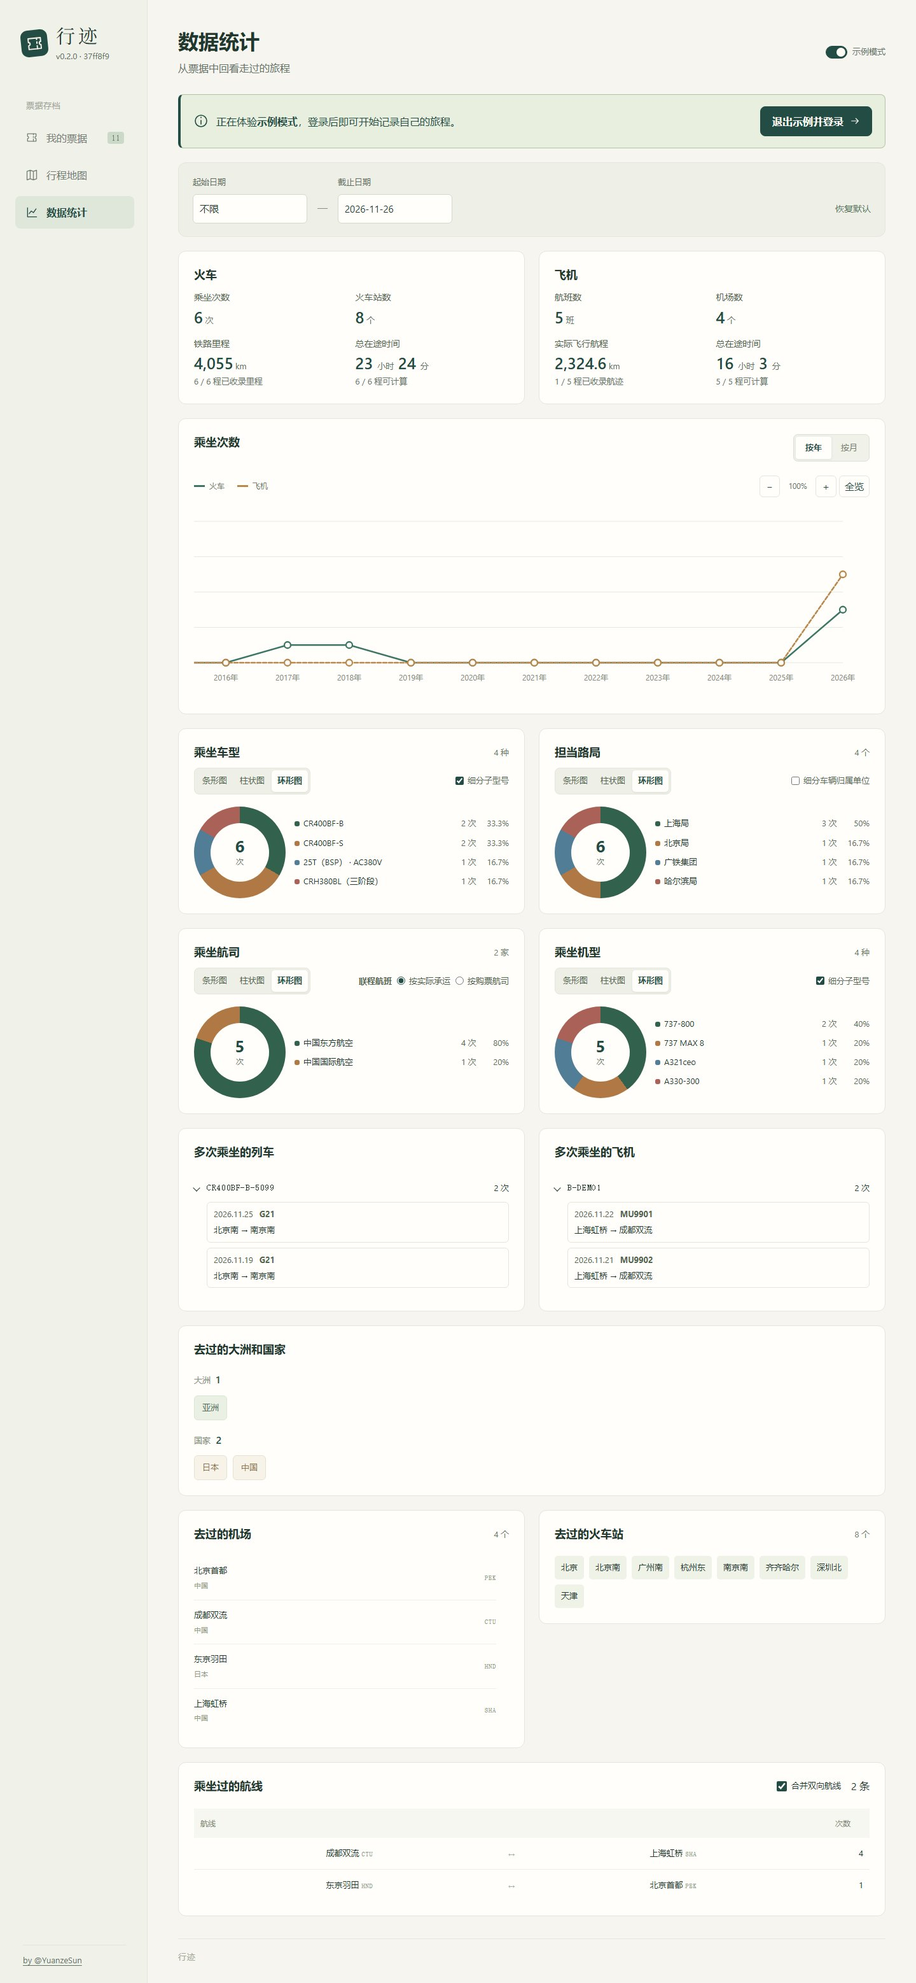
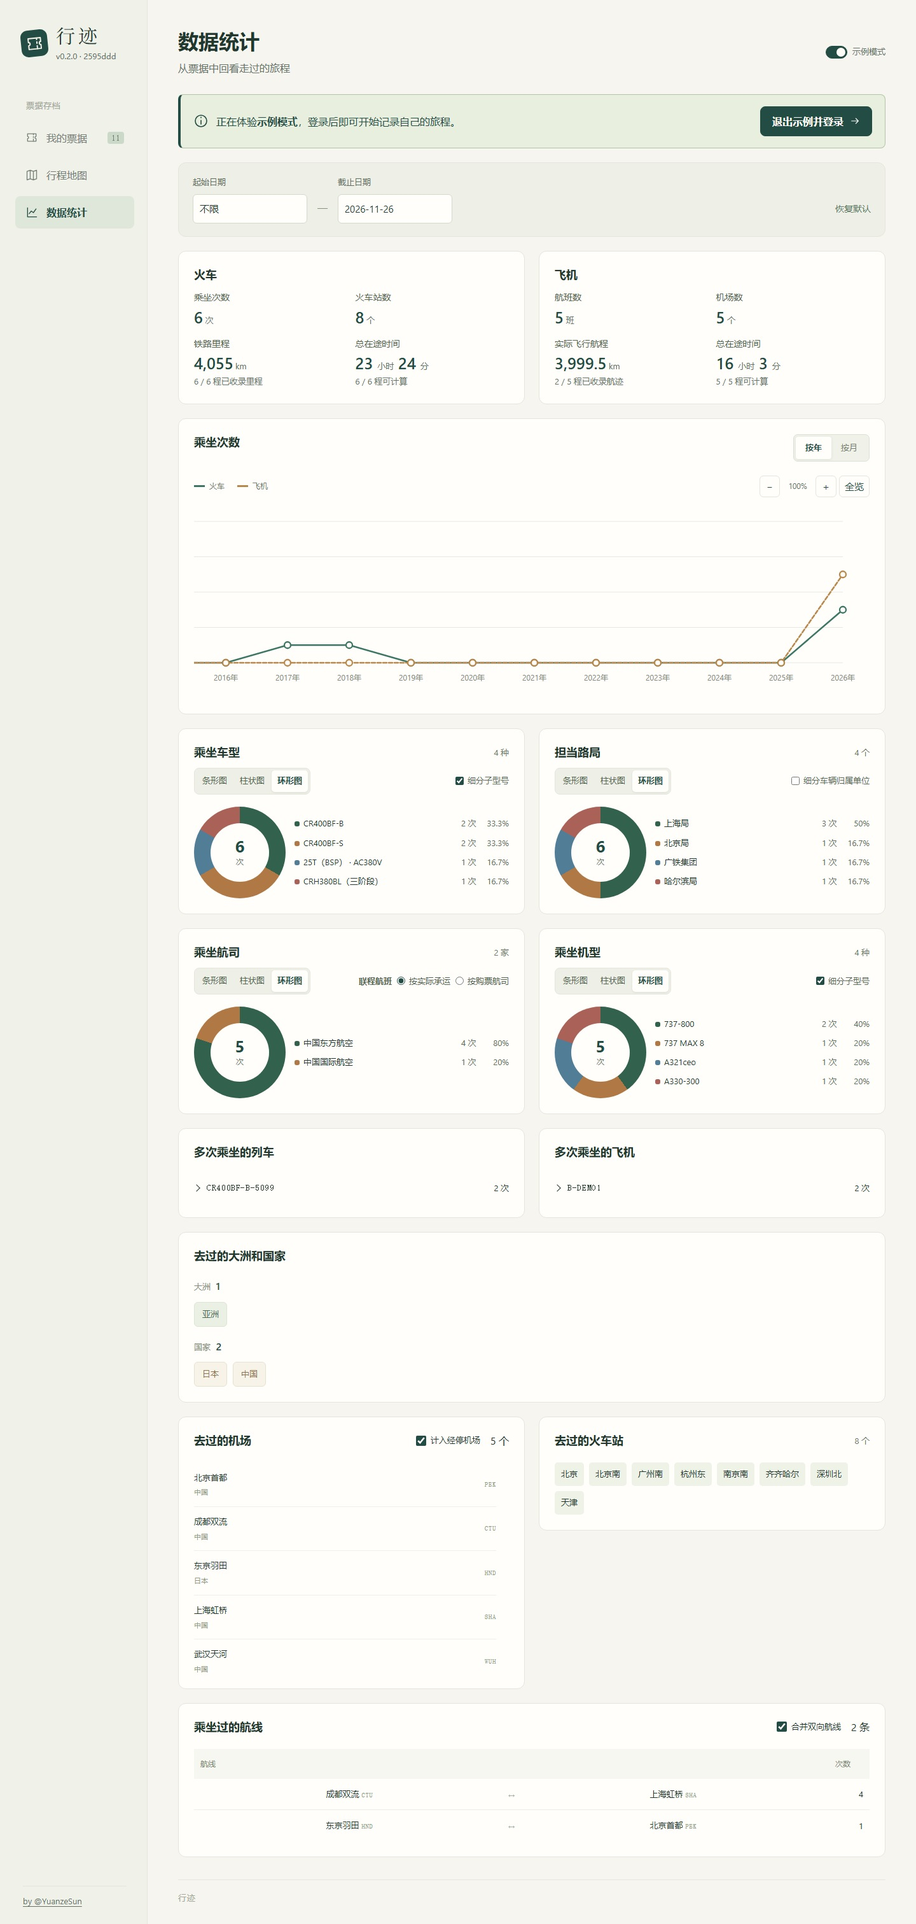
Show flight stopovers on details and airport statistics

diff --git a/src/statistics.js b/src/statistics.js
@@ -11,8 +11,11 @@ function durationMarkup(minutes) {
   return [[days, '天'], [hours, '小时'], [remainder, '分']].filter(([value]) => value)
     .map(([value, unit]) => `<span>${value.toLocaleString('zh-CN')} <small>${unit}</small></span>`).join(' ');
 }
-function placesPanel(title, places, type) {
-  return `<section class="statistics-panel"><header><h2>${title}</h2><span>${places.length} 个</span></header>${places.length ? `<ul class="statistics-place-list statistics-${type}-list" tabindex="0" aria-label="${title}列表">${places.map(place => type === 'station' ? `<li>${e(place.name)}</li>` : `<li><span>${e(place.name)}<small>${e(countryName(place.country))}</small></span><code>${e(place.code)}</code></li>`).join('')}</ul>` : empty('暂无已识别的' + title.replace('去过的', ''))}</section>`;
+function placesPanel(title, places, type, includeStopovers = false) {
+  const count = `<span>${places.length} 个</span>`;
+  const controls = type === 'airport'
+    ? `<div class="statistics-route-controls"><label class="statistics-stopover-option"><input type="checkbox" data-stat-option="includeStopoverAirports"${includeStopovers ? ' checked' : ''}/>计入经停机场</label>${count}</div>` : count;
+  return `<section class="statistics-panel"><header><h2>${title}</h2>${controls}</header>${places.length ? `<ul class="statistics-place-list statistics-${type}-list" tabindex="0" aria-label="${title}列表">${places.map(place => type === 'station' ? `<li>${e(place.name)}</li>` : `<li><span>${e(place.name)}${place.country ? `<small>${e(countryName(place.country))}</small>` : ''}</span><code>${e(place.code)}</code></li>`).join('')}</ul>` : empty('暂无已识别的' + title.replace('去过的', ''))}</section>`;
 }
 
 function repeatedVehiclesPanel(title, type, rows) {
@@ -85,7 +88,7 @@ export function mountStatistics(container, records, { options = {} } = {}) {
       <div class="statistics-columns">${rankingPanel('airlines')}${rankingPanel('aircraft')}</div>
       <div class="statistics-columns">${repeatedVehiclesPanel('多次乘坐的列车', 'rail', data.repeatedTrainsets)}${repeatedVehiclesPanel('多次乘坐的飞机', 'flight', data.repeatedAircraft)}</div>
       <section class="statistics-panel"><header><h2>去过的大洲和国家</h2></header><h3>大洲 <span>${data.continents.length}</span></h3>${data.continents.length ? `<ul class="statistics-chips">${data.continents.map(row => `<li>${e(row.name)}</li>`).join('')}</ul>` : empty('暂无已识别的大洲')}<h3>国家 <span>${data.countries.length}</span></h3>${data.countries.length ? `<ul class="statistics-chips countries">${data.countries.map(row => `<li>${e(row.name)}</li>`).join('')}</ul>` : empty('暂无已识别的国家')}</section>
-      <div class="statistics-columns">${placesPanel('去过的机场', data.airports, 'airport')}${placesPanel('去过的火车站', data.stations, 'station')}</div>
+      <div class="statistics-columns">${placesPanel('去过的机场', data.airports, 'airport', options.includeStopoverAirports)}${placesPanel('去过的火车站', data.stations, 'station')}</div>
       <section class="statistics-panel" data-stat-routes><header><h2>乘坐过的航线</h2><div class="statistics-route-controls"><label><input type="checkbox" data-stat-merge-routes ${options.mergeDirections ? 'checked' : ''}/>合并双向航线</label><span>${data.routes.length} 条</span></div></header>${data.routes.length ? `<div class="statistics-table-scroll"><table class="statistics-routes"><thead><tr><th>航线</th><th>次数</th></tr></thead><tbody>${data.routes.map(route => `<tr><td><div class="statistics-route-pair"><span class="statistics-route-endpoint">${e(route.from.name)} <code>${e(route.from.code)}</code></span><span class="statistics-route-arrow" role="img" aria-label="${options.mergeDirections ? '双向' : '前往'}">${options.mergeDirections ? '↔' : '→'}</span><span class="statistics-route-endpoint">${e(route.to.name)} <code>${e(route.to.code)}</code></span></div></td><td>${route.count}</td></tr>`).join('')}</tbody></table></div>` : empty('暂无可识别的航线')}</section>`}`;
     chartCleanup=bindTripChart(container,series,options,{onZoom:()=>{const scroll=container.querySelector('.statistics-chart-scroll');if(scroll)scrolled({target:scroll});}});
     const scroll = container.querySelector('.statistics-chart-scroll');

diff --git a/tests/statistics.test.js b/tests/statistics.test.js
@@ -127,7 +127,7 @@ test('rail and flight travel times are totaled independently across dates, time 
 });
 
 test('statistics default to an unbounded start and today, compare dates only and respect edited bounds', () => {
-  assert.deepEqual(statisticsOptions({}, '2026-11-16'), { ...range, period: 'year', year: '', chartZoom:1, mergeDirections:true, railUnits:false, railSubtypes:true, aircraftSubtypes:true, marketingAirlines:false });
+  assert.deepEqual(statisticsOptions({}, '2026-11-16'), { ...range, period: 'year', year: '', chartZoom:1, mergeDirections:true, railUnits:false, railSubtypes:true, aircraftSubtypes:true, marketingAirlines:false, includeStopoverAirports:false });
   const rows = [rail({ id: 'past' }), flight({ id: 'today', departureDate: '2026-11-16', departureTime: '23:59' }), rail({ id: 'future', departureDate: '2026-11-17' }), rail({ id: 'deleted', deleted: true }), rail({ id: 'undated', departureDate: '' })];
   const result = journeyStatistics(rows, range);
   assert.deepEqual(result.records.map(row => row.id), ['past', 'today']); assert.equal(result.omittedDates, 1);
@@ -167,6 +167,41 @@ test('statistics keep airport and station identities, combine return air routes 
   assert.equal(data.unknownAircraft, 1); assert.equal(data.unknownRoutes, 1); assert.equal(data.unknownPlaces, 1);
   assert.deepEqual(data.countries.map(row => row.code).sort(), ['CN', 'JP']);
   assert.equal(JSON.stringify(rows), before);
+});
+
+test('the airport option counts each saved stopover once in the selected date range', () => {
+  const route = { fnum: 'CA181', dep: 'PEK', arr: 'HND', date: '2024-03-01', count: 3, airports: ['ICN', 'NRT', 'ZZZ'] };
+  const stopped = flight({ id: 'stopover', service: 'CA181', flightStops: route });
+  const other = flight({ id: 'other', origin: 'NRT', destination: 'PEK' });
+  const later = flight({ service: 'CA181', departureDate: '2024-03-02',
+    flightStops: { ...route, date: '2024-03-02', count: 1, airports: ['PVG'] } });
+  const rows = [stopped, other, later];
+  const options = { ...range, dateTo: '2024-03-01' };
+  const endpoints = journeyStatistics(rows, options);
+  const withStops = journeyStatistics(rows, { ...options, includeStopoverAirports: true });
+  const codes = data => data.airports.map(airport => airport.code).sort();
+  assert.deepEqual(codes(endpoints), ['HND', 'NRT', 'PEK']);
+  assert.deepEqual(codes(withStops), ['HND', 'ICN', 'NRT', 'PEK', 'ZZZ']);
+  assert.deepEqual(withStops.routes, endpoints.routes);
+  assert.deepEqual(withStops.countries, endpoints.countries);
+
+  const dom = new JSDOM('<div id="root"></div>'), root = dom.window.document.querySelector('#root');
+  const unmount = mountStatistics(root, rows, { options });
+  try {
+    const toggle = () => root.querySelector('[data-stat-option="includeStopoverAirports"]');
+    const summary = () => root.querySelector('.statistics-journey-card:nth-child(2) dl > div:nth-child(2) strong').textContent;
+    assert.equal(toggle().checked, false);
+    assert.equal(summary(), '3 个');
+    toggle().click();
+    assert.equal(toggle().checked, true);
+    assert.equal(summary(), '5 个');
+    assert.deepEqual([...root.querySelectorAll('.statistics-airport-list code')].map(code => code.textContent).sort(), codes(withStops));
+    toggle().click();
+    assert.equal(summary(), '3 个');
+  } finally {
+    unmount();
+    dom.window.close();
+  }
 });
 
 test('the airline ranking merges recognized aliases and switches between operating and marketing carriers', () => {

diff --git a/src/flight-track-labels.js b/src/flight-track-labels.js
@@ -2,9 +2,11 @@ import { AIRPORT_POINTS, CITY_POINTS, PROVINCE_LABELS } from './data/map-referen
 import { FLIGHT_MAP_CITIES } from './data/flight-map-cities.js';
 import { projectPoint } from './journey-map-model.js';
 import { resolveCity } from './locations.js';
-import { geographicLabelMarkup, mapLabelPlacer } from './map-labels.js';
+import { resolvePlace } from './places.js';
+import { escape as e } from './html.js';
+import { geographicLabelMarkup, mapLabelPlacer, mapLabelText } from './map-labels.js';
 
-export function flightTrackLabelRenderer(record, flightStr, center) {
+export function flightTrackLabelRenderer(record, flightStr, center, stopovers) {
   const [, origin, destination] = flightStr.split('_');
   const endpoints = ['origin', 'destination'].flatMap((side, index) => {
     const name = resolveCity(record, side).city;
@@ -14,11 +16,22 @@ export function flightTrackLabelRenderer(record, flightStr, center) {
   });
   const provinces = Object.entries(PROVINCE_LABELS).map(([name, coordinates]) => ({ name, point: projectPoint(coordinates, center) }));
   const cities = FLIGHT_MAP_CITIES.map(([name, lon, lat, rank]) => ({ name, point: projectPoint([lon, lat], center), rank }));
+  const stops = stopovers.map(({ code, point }) => {
+    const airport = resolvePlace({ type: 'flight', origin: code }, 'origin');
+    const name = airport.chineseName || airport.name || code;
+    return { code, point, name: '经停 ' + name, title: `经停 ${name === code ? code : `${name}（${code}）`}` };
+  });
 
   return (viewport, width, height, unit) => {
     const place = mapLabelPlacer(viewport, width, height, [[width - 62, 8, width - 8, 144]]), seen = new Set();
     const result = { cities: [], provinces: [] };
     const visible = ({ point: [x, y] }) => Math.abs(x - viewport.x) <= width * unit / 2 && Math.abs(y - viewport.y) <= height * unit / 2;
+    const stopMarkup = stops.filter(visible).map(row => {
+      const short = { ...row, name: '经停 ' + row.code };
+      const label = place(row, 12);
+      const text = label ? mapLabelText({ ...row, label }, unit) : mapLabelText({ ...short, label: place(short, 12) }, unit);
+      return `<g class="flight-stopover" data-flight-stopover="${e(row.code)}" transform="translate(${row.point})" role="img" aria-label="${e(row.title)}"><title>${e(row.title)}</title><circle r="${4 * unit}" stroke-width="${1.5 * unit}"/>${text}</g>`;
+    }).join('');
     function add(row, kind, size) {
       if (seen.has(row.name)) return;
       const label = place(row, size, kind === 'provinces');
@@ -35,6 +48,6 @@ export function flightTrackLabelRenderer(record, flightStr, center) {
       if (result.cities.length >= cityLimit) break;
       add(row, 'cities', 11);
     }
-    return geographicLabelMarkup(result, unit);
+    return geographicLabelMarkup(result, unit) + stopMarkup;
   };
 }

diff --git a/src/styles.css b/src/styles.css
@@ -598,6 +598,7 @@ input::-webkit-datetime-edit-fields-wrapper{padding:0}
 
 .personal-profile .profile-document{padding:8px 12px 12px}.profile-document legend{display:flex;align-items:center;justify-content:space-between;gap:12px;width:100%;padding:0 3px}.profile-document legend .text-button{font-size:13px;min-height:28px;line-height:1.4;padding:2px 5px}.profile-document-fields{grid-template-columns:repeat(4,minmax(0,1fr));gap:10px}.personal-profile .profile-document-fields .field{margin:0}.personal-profile .field input,.personal-profile .field select{width:100%;min-width:0;max-width:100%;height:var(--control-height);min-height:var(--control-height);padding:9px 10px}.personal-profile .profile-basics{gap:0 12px}
 .statistics-station-list{display:flex;flex-wrap:wrap;align-content:flex-start;align-items:flex-start}.statistics-station-list li{flex:0 0 auto;max-width:100%}.statistics-route-controls{display:flex;align-items:center;gap:16px;flex-wrap:wrap}.statistics-route-controls label{display:flex;align-items:center;gap:7px;font-size:13px;color:var(--ink);cursor:pointer}.statistics-route-controls input{width:16px;height:16px;margin:0;accent-color:var(--green)}
+@media(pointer:coarse){.statistics-stopover-option{min-height:44px}}
 @media(max-width:900px){.profile-document-fields{grid-template-columns:repeat(2,minmax(0,1fr))}}
 @media(max-width:680px){.statistics-route-controls{gap:10px}.statistics-route-controls label{font-size:12px}.personal-profile .profile-basics{grid-template-columns:repeat(2,minmax(0,1fr))}.personal-profile .field>span{font-size:13px}.personal-profile .field input,.personal-profile .field select{font-size:14px}.personal-profile .profile-document{padding:7px 10px 10px}.profile-document-fields{gap:10px}.personal-profile .profile-document-fields .field{margin:0}}
 .page-footer{align-items:center;gap:12px;flex-wrap:wrap}.author-credit{white-space:nowrap}.author-credit a{text-decoration:underline;text-underline-offset:3px}.author-credit a:hover{color:var(--green)}
@@ -629,6 +630,8 @@ select:not([multiple]){-webkit-appearance:none;appearance:none;min-width:0;max-w
 .flight-track-status{margin:0}
 .flight-track [hidden]{display:none}
 .flight-track-frame .flight-track-line path{stroke:#8fd0e3;stroke-width:2.5}
+.flight-stopover circle{fill:#ffd28d;stroke:#162d42}
+.flight-track-frame .flight-stopover text{fill:#ffd28d}
 .flight-track-highlight,.flight-track-frame [data-flight-track-aircraft]{visibility:hidden}
 [data-flight-track-played] .flight-track-line{opacity:.38}
 [data-flight-track-played] .flight-track-highlight,[data-flight-track-playing] [data-flight-track-aircraft]{visibility:visible}

diff --git a/tests/flight-track.test.js b/tests/flight-track.test.js
@@ -11,6 +11,7 @@ import { prepareCloud } from './helpers/cloud.js';
 const flight = createRecord({
   id: 'test-flight', type: 'flight', template: 'air-boarding-pass', service: 'JL62',
   origin: 'NRT', destination: 'LAX', departureDate: '2026-11-23', passenger: 'TEST/PASSENGER', identity: 'P000001', seat: '12A', seatClass: 'Y',
+  flightStops: { fnum: 'JL62', date: '2026-11-23', dep: 'NRT', arr: 'LAX', count: 1, airports: ['ANC'] }
 });
 const flightStr = 'JL62_NRT_LAX_2026-11-23_0';
 const coordinates = [
@@ -39,6 +40,9 @@ test('flight tracks are keyed to the dated airport pair and never change the jou
   assert.equal(validateRecord({ ...saved, deleted: true }).flightTrack, undefined);
   const geometry = record => networkGeometry(journeyNetwork([record]));
   assert.equal(geometry(saved).routes[0].path, geometry(flight).routes[0].path);
+  const routeWithStops = geometry(saved), direct = geometry({ ...saved, flightStops: undefined });
+  assert.equal(routeWithStops.routes[0].path, direct.routes[0].path);
+  assert.deepEqual(routeWithStops.nodes.map(node => node.code), ['NRT', 'LAX']);
   assert.deepEqual(readFlightTrack({ structuredContent: domesticTrack }, domesticFlightStr).segments, domesticCoordinates);
   assert.throws(() => readFlightTrack({ structuredContent: { items: [{ ...domesticRow, date: '2026-08-12_0' }] } }, domesticFlightStr), /无法识别/);
 });
@@ -125,6 +129,9 @@ test('flight track queries run in the editor and saved tracks replay in details'
     assert.ok(Number(svg.getAttribute('viewBox').split(' ')[2]) < 400, 'fits across the date line');
     const cityLabels = [...svg.querySelectorAll('.route-city text')].map(label => label.textContent);
     assert.ok(cityLabels.includes('东京') && cityLabels.includes('洛杉矶'));
+    const marker = svg.querySelector('[data-flight-stopover="ANC"]');
+    assert.match(marker?.querySelector('title').textContent ?? '', /经停.*ANC/);
+    assert.match(marker?.querySelector('text').textContent ?? '', /经停/);
     assert.equal(svg.hasAttribute('data-flight-track-played'), false);
     play.click();
     step(0);
@@ -148,6 +155,7 @@ test('flight track queries run in the editor and saved tracks replay in details'
     element('.flight-track-frame [data-route-zoom="fit"]').click();
     step(6060);
     assert.equal(svg.getAttribute('viewBox'), initialView);
+    assert.ok(svg.querySelector('[data-flight-stopover="ANC"]'));
     play.click();
     assert.equal(first.style.strokeDashoffset, '1');
     element('[data-action=close-modal]').click();

diff --git a/src/statistics-model.js b/src/statistics-model.js
@@ -40,7 +40,7 @@ export function todayDate(date = new Date()) {
 export function statisticsOptions(input = {}, today = todayDate()) {
   const selectedEnd = input.dateTo || today;
   const dateTo = dateInterval(selectedEnd)?.end > today ? today : selectedEnd;
-  return { dateFrom: input.dateFrom ?? '', dateTo, period: input.period === 'month' ? 'month' : 'year', year: input.year || '', chartZoom:Number.isFinite(input.chartZoom) ? Math.max(.0001,Math.min(8,input.chartZoom)) : 1, mergeDirections: input.mergeDirections !== false, railUnits:input.railUnits === true, railSubtypes:input.railSubtypes !== false, aircraftSubtypes:input.aircraftSubtypes !== false, marketingAirlines:input.marketingAirlines === true };
+  return { dateFrom: input.dateFrom ?? '', dateTo, period: input.period === 'month' ? 'month' : 'year', year: input.year || '', chartZoom:Number.isFinite(input.chartZoom) ? Math.max(.0001,Math.min(8,input.chartZoom)) : 1, mergeDirections: input.mergeDirections !== false, railUnits:input.railUnits === true, railSubtypes:input.railSubtypes !== false, aircraftSubtypes:input.aircraftSubtypes !== false, marketingAirlines:input.marketingAirlines === true, includeStopoverAirports:input.includeStopoverAirports === true };
 }
 
 function filterStatisticsRange(records, { dateFrom, dateTo }) {
@@ -119,6 +119,11 @@ export function journeyStatistics(records, input = {}, today = todayDate()) {
     }
     if (record.type !== 'flight') continue;
     flight++;
+    if (options.includeStopoverAirports) for (const code of record.flightStops?.airports || []) {
+      if (airports.has(code)) continue;
+      const { name = code, country = '' } = placeGeography({ type: 'flight', origin: code }, 'origin') || {};
+      airports.set(code, { id: code, code, name, country });
+    }
     const registration = normalizeAircraftRegistration(record.aircraftRegistration);
     if (registration) addVehicleTrip(registrations, registration, record);
     const airline = flightAirline(record, options.marketingAirlines);

diff --git a/src/demo.js b/src/demo.js
@@ -7,6 +7,7 @@ import {railCompletion,shiftRailDate} from './rail-lookup-model.js';
 import {LOOKUP_FIELDS} from './lookup-values.js';
 import {markFieldSources} from './field-sources.js';
 import {flightTrackRequest} from './flight-track.js';
+import {flightQuery} from './flight-query.js';
 
 const localToday=()=>{const date=new Date();return `${date.getFullYear()}-${String(date.getMonth()+1).padStart(2,'0')}-${String(date.getDate()).padStart(2,'0')}`;};
 const verifiedAt='2026-11-17T00:00:00.000Z';
@@ -84,6 +85,16 @@ export function demoRecords(today=localToday()){
           [121.67, 38.66], [123.31, 37.18], [126.1, 35.7], [129.09, 34.68], [132.5, 34.11], [135.1, 34.43],
           [137.24, 34.65], [138.19, 34.68], [139.35, 34.92], [139.78, 35.55]]]
       };
+      if (row.service === 'MU9901') {
+        values.flightStops = { ...flightQuery(values), count: 1, airports: ['WUH'] };
+        values.flightTrack = {
+          flightStr: flightTrackRequest(values), queriedAt: verifiedAt,
+          segments: [
+            [[121.33426, 31.198104], [121.06, 31.22], [119.21, 31.29], [117.38, 31.37], [115.04, 30.99], [114.213723, 30.774798]],
+            [[114.213723, 30.774798], [113.9, 30.93], [112.34, 31.08], [109.94, 30.83], [106.33, 30.55], [103.945966, 30.558257]]
+          ]
+        };
+      }
       values.boardingCode=createBoardingCode({passenger:values.passenger==='示例旅客' ? 'SHILI/LVKE' : values.passenger,pnr:values.pnr,origin:values.originCode,destination:values.destinationCode,carrier:values.service.slice(0,2),flightNumber:values.service.slice(2),date:values.departureDate,cabin:values.seatClass,seat:values.seat,sequence:String(42+index),status:'1',electronic:''});
       values.boardingCodeSource='generated';values.boardingLegIndex='0';values.fieldSources.boardingCode='generated';
       if (!syntheticFlight) values.sources.push({kind:'reference',label:`航班参考：${values.airline} ${values.service}，${values.origin}—${values.destination}`,at:verifiedAt});

diff --git a/src/flight-track-ui.js b/src/flight-track-ui.js
@@ -20,10 +20,15 @@ function inFlightDirection(track) {
 function mountTrackMap(frame, track, record) {
   const view = frame.ownerDocument.defaultView, svg = frame.querySelector('svg');
   const basemap = createMapBasemap(frame.querySelector('canvas'), view, { provinceContrast: true });
-  const center = longitudeCenter(track.segments.flatMap(line => line.map(point => point[0])));
-  const renderLabels = flightTrackLabelRenderer(record, track.flightStr, center);
+  const stopovers = (record.flightStops?.airports || []).flatMap(code => {
+    const coordinates = AIRPORT_POINTS[code];
+    return coordinates ? [{ code, coordinates }] : [];
+  });
+  const center = longitudeCenter([...track.segments.flat(), ...stopovers.map(stop => stop.coordinates)].map(point => point[0]));
+  const mapStops = stopovers.map(({ code, coordinates }) => ({ code, point: projectPoint(coordinates, center) }));
+  const renderLabels = flightTrackLabelRenderer(record, track.flightStr, center, mapStops);
   const lines = inFlightDirection(track).map(line => line.map(point => projectPoint(point, center)));
-  const points = lines.flat();
+  const points = [...lines.flat(), ...mapStops.map(stop => stop.point)];
   const xs = points.map(point => point[0]), ys = points.map(point => point[1]);
   const bounds = [Math.min(...xs), Math.min(...ys), Math.max(...xs), Math.max(...ys)];
   let distance = 0;

diff --git a/tests/demo.test.js b/tests/demo.test.js
@@ -59,6 +59,7 @@ test('demo flights have independent boarding codes and cover the aircraft groupi
   assert.deepEqual(counts(true),{'737-800':2,'737 MAX 8':1,A321ceo:1,'A330-300':1});
   assert.deepEqual(counts(false),{'737':3,A321:1,A330:1});
   const mileage = journeyStatistics(rows, { dateTo: '2026-11-17' }, '2026-11-17');
-  assert.equal(mileage.actualFlightDistanceTrips, 1);
+  assert.equal(mileage.actualFlightDistanceTrips, 2);
+  assert.deepEqual(rows.find(record=>record.service==='MU9901').flightStops.airports, ['WUH']);
   assert.ok(mileage.actualFlightDistance > 2000);
 });

diff --git a/README.md b/README.md
@@ -33,7 +33,7 @@
 
 ![火车票详情、时刻表和车厢示意图](docs/images/rail-ticket-details.jpg)
 
-![登机牌详情、行李、起降时间和示例航迹](docs/images/boarding-pass-details.jpg)
+![登机牌详情、行李、起降时间和带经停标记的示例航迹](docs/images/boarding-pass-details.jpg)
 
 ### 行程地图与路线播放
 
@@ -45,7 +45,7 @@
 
 ### 数据统计
 
-![数据统计](docs/images/statistics.jpg)
+![数据统计及计入经停机场选项](docs/images/statistics.jpg)
 
 ### 旅行纪念册
 
